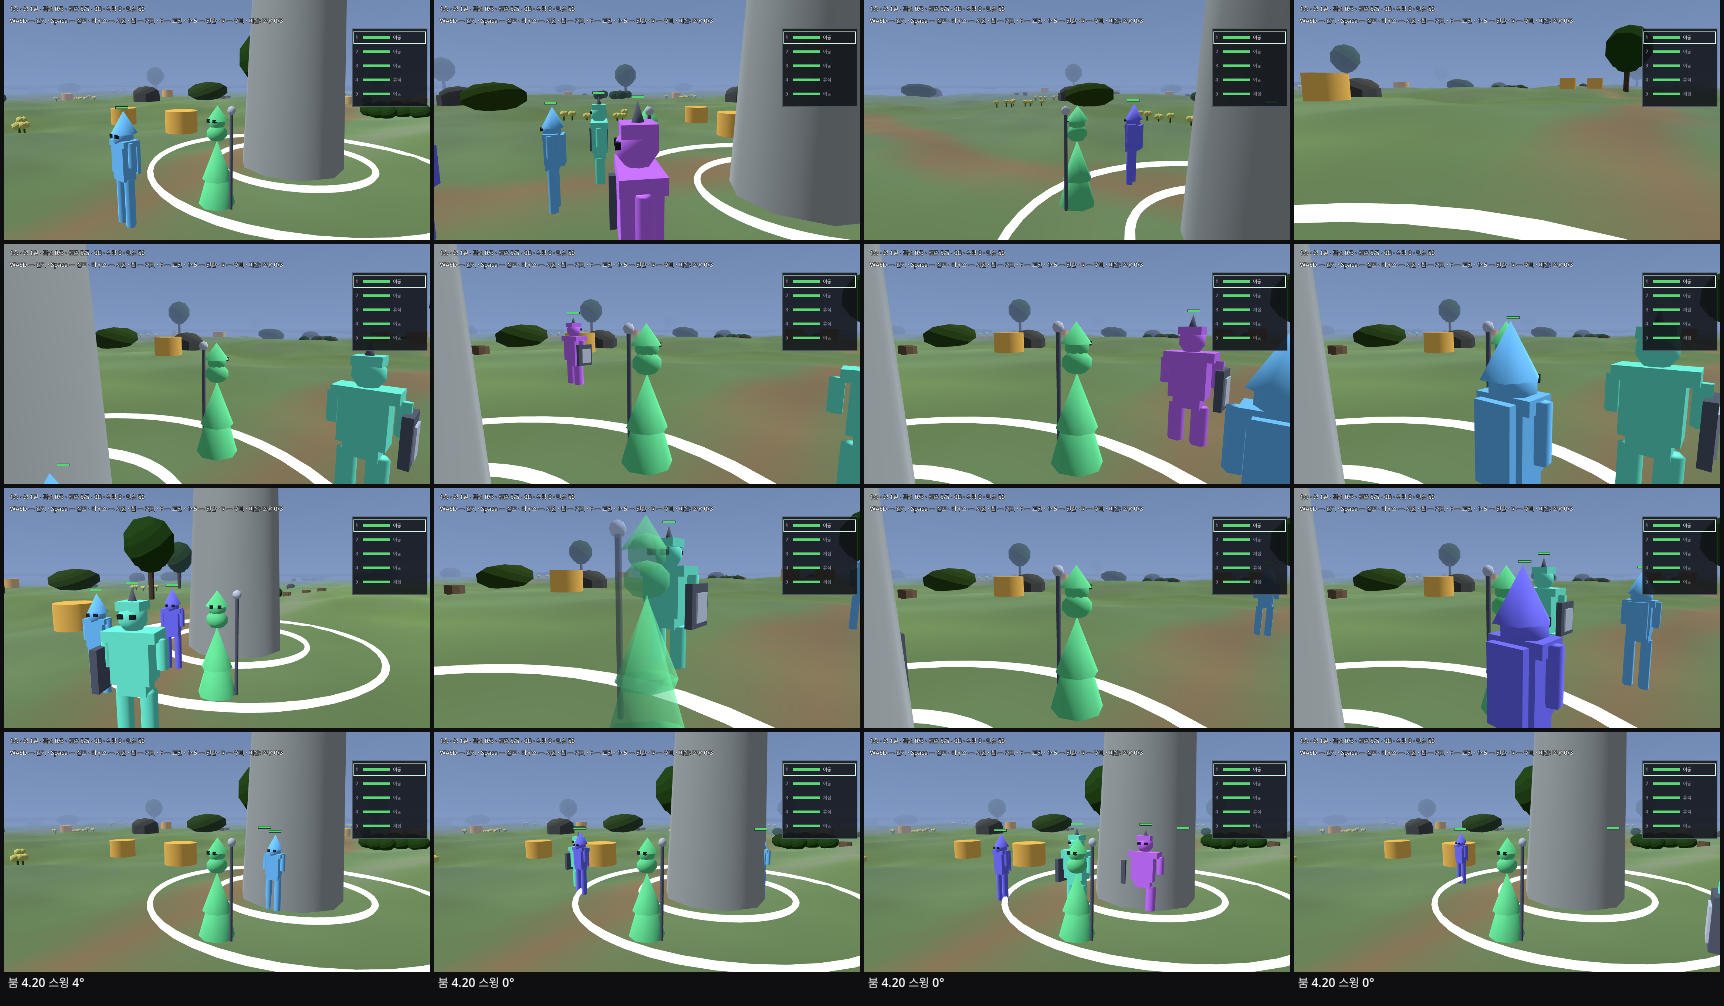
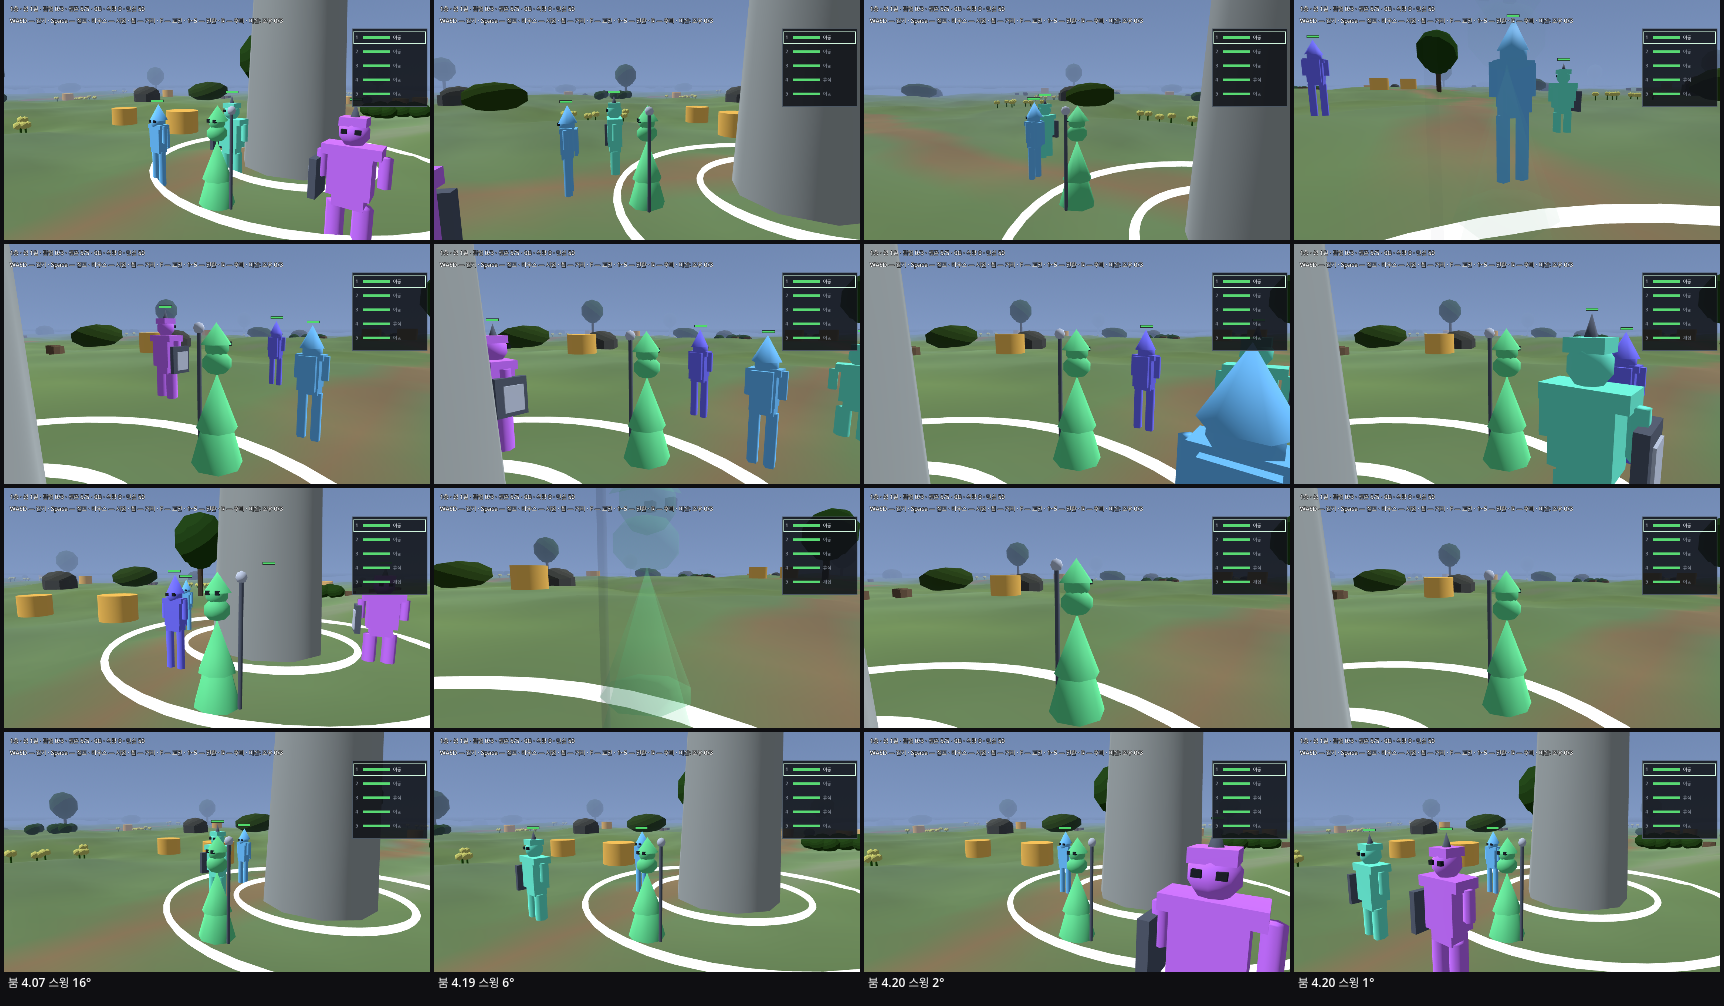
60fps 타임스텝으로 벽 스윙을 확정한다 — 들이 0.20초 유지 · 붐 하한 없음
PR #9 의 실측은 창 모드 기계 fps(22fps)에 묶여 있었다: 하네스 스텝은 초×60프레임, 시점 입력은
프레임당 도로 적혀 있어 22fps 에서는 입력 회전이 43°/s("60°/s" 라벨)로 느려졌다. --fixed-fps 60
으로 타임스텝을 고정해 같은 하네스를 다시 돌렸다(게임 시간 11.10초 / 실시간 31.79초 = 프레임당
16.7ms).

60fps 타임스텝 실측:
  카메라 방향 최대 7.0°/프레임 (≈420°/s · 손목 휙 360°/s 입력) — 옛 코드(스냅) 66.0°/프레임
  프레임당 최대 붐 변화 0.637유닛 (옛 코드 2.233)
  영웅이 사라진 시간 0.25초 (666프레임 중 15 · 붐 0.98~1.09) — 옛 코드의 0 은 스냅이 나쁜 구간을
  건너뛴 것

확정한 둘:
  들이 0.20초 유지 — 사라진 시간 0.25초가 손목 휙 한 번(0.25초 남짓)과 같고, 더 줄이면 교정이
  강탈로 읽힌다.
  붐 하한 없음 — 문턱(1.10)에 맞춘 하한은 투명도 4% 라 화면이 그대로고, 더 크게 두면 카메라가
  벽·탑 원통 안으로 들어간다(PR #9 가 닫은 결함 그 자체). 남는 레버는 들이 시간뿐이다.

하네스에 게임 시간·사라진 시간(초) 측정을 붙이고 60fps 고정 사용법을 머리에 적었다. 시트는
60fps 타임스텝으로 다시 찍은 것으로 갱신.

검증:
  godot --path godot --fixed-fps 60 -s tools/shot_wall_feel.gd (창 모드 — headless 아님)
  ./tools/test_godot.sh → GUT 602건 통과 · [PASS] godot
  gate_all.py → GATE ALL OK (계약 15/15) · review_docs.py 발견 0

🤖 Generated with Codebuff

diff --git a/docs/design/바이옴_에셋_계획.md b/docs/design/바이옴_에셋_계획.md
@@ -287,8 +287,9 @@ godot/assets/art/models/          # 결과물 (.glb) + .import 커밋
   - **전/후 실렌더** — [wall_camera](../../godot/screenshots/wall_camera) (`godot --path godot -s tools/shot_wall_camera.gd`). 같은 하네스를 옛 커밋 작업 트리에서도 돌려 같은 자리·같은 yaw 로 찍었다: `before_yaw180` 붐 **0.68**(프레임이 영웅 몸통으로 참) → `after_yaw180` 붐 **4.20**·스윙 **60°**(영웅과 동료가 보인다).
   - **검증** — GUT **602건**(신규 5건: 벽 앞에서 붐을 안 접고 돎 · 나무는 그대로 접음 · `apply` 가 스무딩을 스냅하지 않음 · 스윙이 프레임당 6.9° 안쪽으로 풀림 · 360° 를 돌려도 카메라가 원통 밖) · `gate_all.py` **GATE ALL OK** · `review_docs.py` 발견 0.
   - **실주행에서 결함 하나 (2026-10-28, 자체 실측)** — 스윙이 **실게임에서만** 무력했다. 원인은 스윙이 아니라 `apply` 였다: 걷는 동안 매 프레임 오는 스냅샷 갱신이 카메라를 `delta = 0` 으로 놓았고, `_place_camera` 는 그걸 "시간이 안 흘렀다"로 보고 **목표로 꽂았다** — 붐·스윙 스무딩이 통째로 스냅으로 덮였다. 합성 스윕은 `_place_camera(delta)` 를 직접 불러 이 경로를 안 지나므로 초록이었다. 고침: `apply` 는 목표만 갱신하고 값을 놓지 않으며, 스냅은 마운트·순간이동 경로에만 남는다.
-  - **실주행 실측 (창 모드 · 옛 커밋 워크트리와 같은 하네스 대조)** — 옛 코드: 프레임당 카메라 방향 최대 **66.0°**(≈1500°/s) · 붐 변화 **2.233**유닛. 고친 뒤: **16.4°**(≈380°/s) · **1.040**유닛. 380°/s 는 사람이 가장 빨리 휘두르는 360°/s 와 비슷하다. 대가는 스윙이 도는 동안 붐이 잠깐 몸속을 지나는 것 — 영웅이 사라진 프레임이 **15/666**(2.3%, 붐 0.91~1.10)이다. 옛 코드의 **0/666** 은 좋아진 게 아니다: 스냅이 순간이라 나쁜 구간을 **건너뛴** 것이다. 들이 0.30초는 25/666 이라 0.20초로 내렸다.
-  - **실주행 하네스** — `godot --path godot -s tools/shot_wall_feel.gd` (창 모드 — headless 아님). `move` 의도로 탑까지 걸어가 시점을 벽으로 돌리고, 프레임 간 실시간·카메라 방향·붐·스윙·영웅 가림을 프레임마다 재서 16장 시트를 남긴다([wall_feel](../../godot/screenshots/wall_feel)).
+  - **실주행 실측 (창 모드 · 60fps 타임스탬 실측 · 옛 커밋 워크트리와 같은 하네스 대조)** — 옛 코드: 프레임당 카메라 방향 최대 **66.0°**(≈1500°/s) · 붐 변화 **2.233**유닛. 고친 뒤 **7.0°**(≈420°/s) · **0.637**유닛. 420°/s 는 손목 휙(360°/s)으로 벽을 향해 돌릴 때의 교정 속도다. 대가는 스윙이 도는 동안 붐이 잠깐 몸속을 지나는 것 — 영웅이 사라진 시간이 **0.25초**(666프레임 중 15, 붐 0.98~1.09)다. 옛 코드의 **0** 은 좋아진 게 아니다: 스냅이 순간이라 나쁜 구간을 **건너뛴** 것이다.
+  - **붐 하한은 두지 않는다** — 하한을 문턱(1.10)에 맞춰 두면 투명도가 4% 라 화면이 그대로고, 더 크게 두면 카메라가 벽·탑 원통 안으로 들어간다(이 고침이 닫은 결함 그 자체). 남는 레버는 스윙 들이 시간뿐이고, 0.20초가 그 타협이다 — 0.30초는 사라진 시간이 더 길고, 더 짧으면 교정이 강탈로 읽힌다.
+  - **실주행 하네스** — `godot --path godot --fixed-fps 60 -s tools/shot_wall_feel.gd` (창 모드 — headless 아님). 스텝이 초×60프레임으로 적혀 있어 **60fps 고정**으로 돌려야 입력 회전(60°/s·360°/s)이 이름값을 한다 — 고정 없이 돌리면 기계 fps(이 맥 22fps)만큼 입력도 느려진다(1차 실측이 그 상태였다). `move` 의도로 탑까지 걸어가 시점을 벽으로 돌리고, 카메라 방향·붐·스윙·영웅 가림을 프레임마다 재서 16장 시트를 남긴다([wall_feel](../../godot/screenshots/wall_feel)).
 - **S3에서 S5를 건너뛸 수 있는가**: 회색 박스만으로도 "26바이옴이 다르게 읽히는가"는 판정된다. 안 읽히면 라이팅을 더해도 안 읽힌다 — 그래서 S3가 S4의 관문이다.
 - **하지 않는 것**: 377종 전량, 바이옴 전용 지형 26벌, 상층 슬롯 22~24 생태 재검토(이미 `upperEcologyStatus` 로 재검토 상태다).
 
